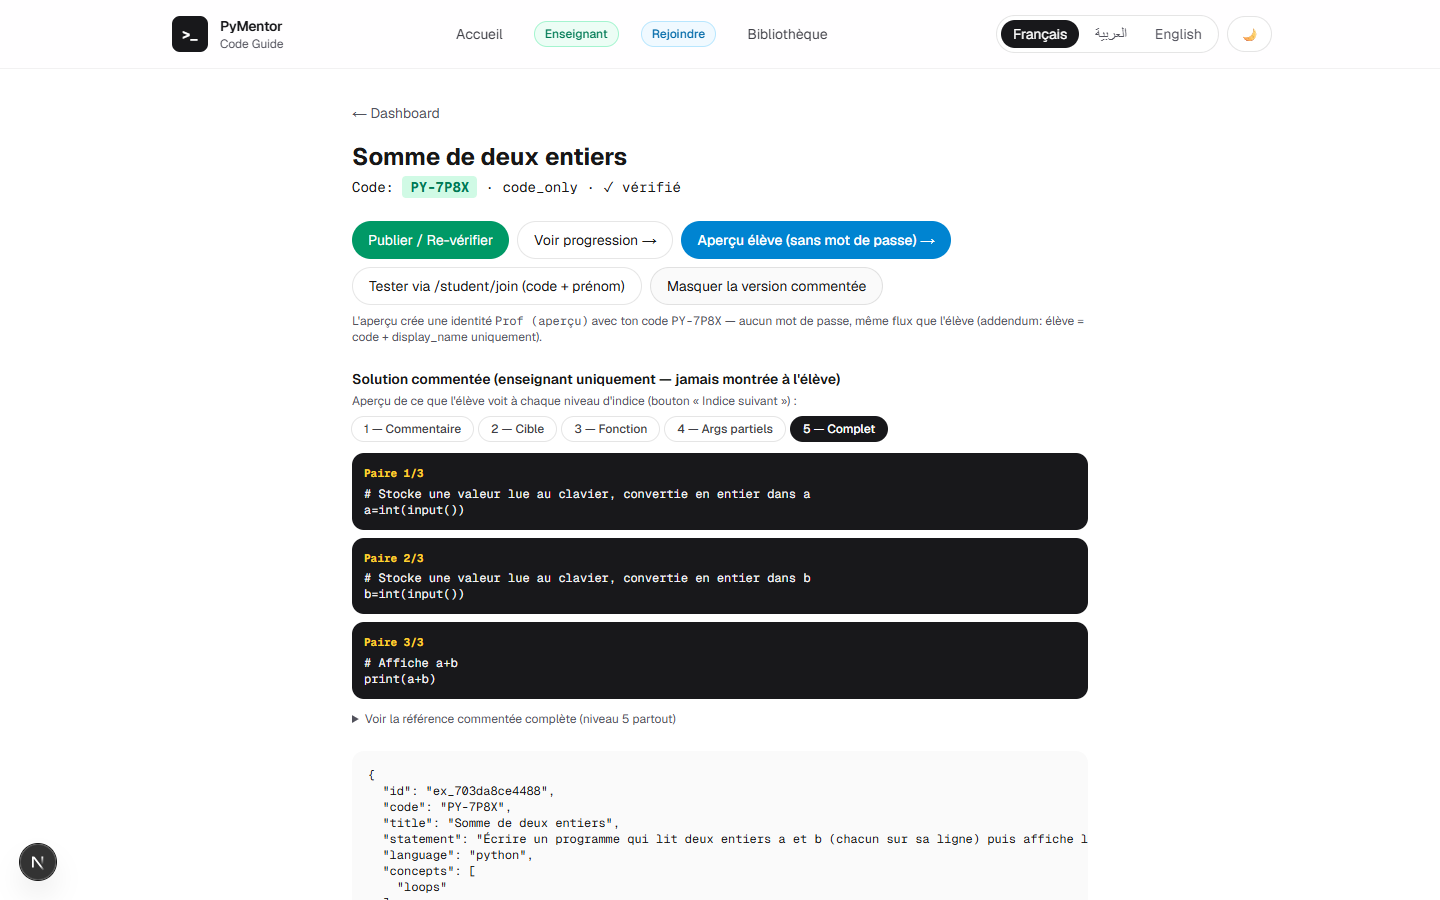
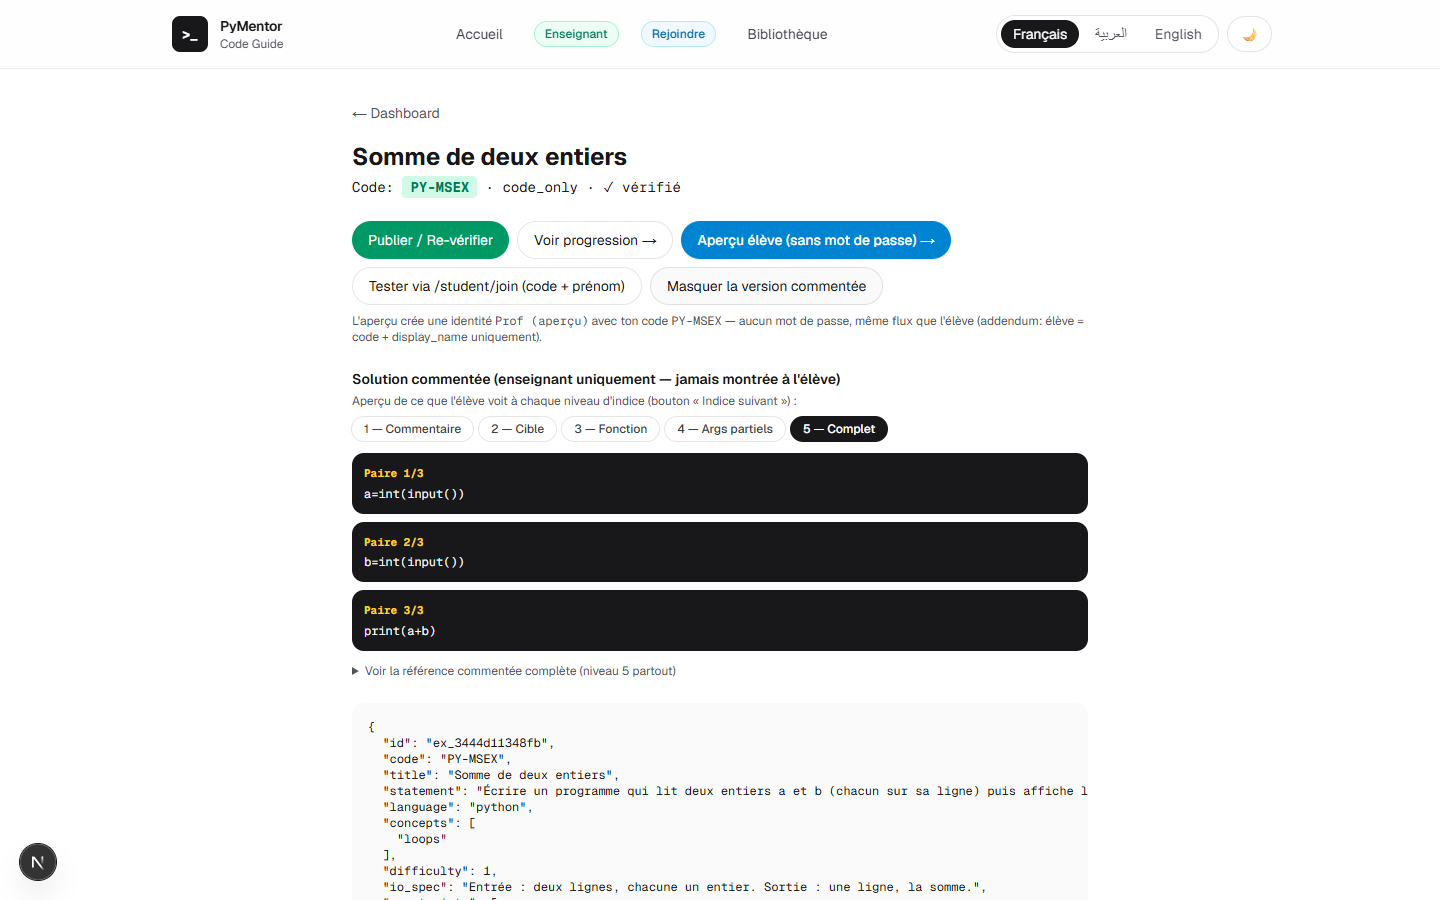
UX eleve: clavier simule + bouton remplir exemple, Run vs Verifier, console FR, warning input(prompt)

Changed region(s): [[0.2188, 0.5289, 0.7812, 1.0], [0.5938, 0.9644, 0.6875, 0.9956], [0.4688, 0.3422, 0.5, 0.3733]]

diff --git a/src/components/WorkspaceClient.tsx b/src/components/WorkspaceClient.tsx
@@ -24,6 +24,14 @@ function isDefaultCode(code: string): boolean {
   return code === DEFAULT_CODE;
 }
 
+/**
+ * L'élève a écrit input("texte") avec un prompt ? Au BAC c'est input() vide.
+ * Hors commentaires uniquement (un # input("x") ne compte pas).
+ */
+export function hasInputPromptLine(code: string): boolean {
+  return code.split("\n").some((l) => !l.trim().startsWith("#") && /input\s*\(\s*["']/.test(l));
+}
+
 export function WorkspaceClient() {
   const { t } = useI18n();
   const router = useRouter();
@@ -233,6 +241,9 @@ export function WorkspaceClient() {
   );
   const panelExamples = loadedExercise?.examples ?? [];
   const panelConstraints = loadedExercise?.constraints ?? [];
+  // L'élève a écrit input("texte") ? Au BAC c'est input() vide — on le signale
+  // doucement (hors commentaires) au lieu de laisser les tests échouer.
+  const hasInputPrompt = useMemo(() => hasInputPromptLine(code), [code]);
 
   const isCompleted = !!(testReport && testReport.total > 0 && testReport.passed === testReport.total);
 
@@ -414,14 +425,14 @@ export function WorkspaceClient() {
         <div role="region" aria-label={`${t("workspace.editor")} & ${t("workspace.console")}`} className={`${activeTab !== "editor" ? "hidden lg:flex" : "flex"} flex flex-col gap-3`}>
           <div className="flex flex-wrap items-center justify-between gap-2 rounded-2xl border border-black/10 bg-white p-3 dark:border-white/10 dark:bg-zinc-900">
             <div className="flex items-center gap-2">
-              <button onClick={handleRun} disabled={running} data-testid="run-btn" className="inline-flex h-9 items-center gap-2 rounded-full bg-emerald-600 px-4 text-sm font-medium text-white hover:bg-emerald-700 disabled:cursor-not-allowed disabled:bg-zinc-100 disabled:text-zinc-400 dark:disabled:bg-zinc-700">
+              <button onClick={handleRun} disabled={running} data-testid="run-btn" title={t("workspace.runTitle")} className="inline-flex h-9 items-center gap-2 rounded-full bg-emerald-600 px-4 text-sm font-medium text-white hover:bg-emerald-700 disabled:cursor-not-allowed disabled:bg-zinc-100 disabled:text-zinc-400 dark:disabled:bg-zinc-700">
                 <span aria-hidden>▶</span> {t("workspace.run")}
               </button>
               <button onClick={handleStop} disabled={!running} data-testid="stop-btn" className="inline-flex h-9 items-center gap-2 rounded-full border border-black/10 bg-white px-4 text-sm font-medium hover:bg-zinc-50 disabled:opacity-50 dark:border-white/15 dark:bg-zinc-800 dark:hover:bg-zinc-700">
                 ■ {t("workspace.stop")}
               </button>
-              <button onClick={handleRunTests} disabled={running} className="hidden h-9 items-center rounded-full border border-black/10 bg-white px-4 text-sm sm:inline-flex dark:border-white/15 dark:bg-zinc-800">
-                Tests
+              <button onClick={handleRunTests} disabled={running} data-testid="tests-btn" title={t("workspace.testsTitle")} className="inline-flex h-9 items-center rounded-full border border-black/10 bg-white px-4 text-sm font-medium hover:bg-zinc-50 dark:border-white/15 dark:bg-zinc-800 dark:hover:bg-zinc-700">
+                {t("workspace.verify")}
               </button>
             </div>
             <div className="flex items-center gap-2">
@@ -442,9 +453,15 @@ export function WorkspaceClient() {
             <Editor ref={editorRef} value={code} onChange={setCode} onLargePaste={handleLargePaste} theme={theme} fontSize={fontSize} placeholder={t("landing.pastePlaceholder")} />
           </div>
 
+          {hasInputPrompt ? (
+            <div className="rounded-xl border border-amber-300 bg-amber-50 p-3 text-sm text-amber-800 dark:border-amber-900 dark:bg-amber-950 dark:text-amber-200" role="status">
+              {t("workspace.inputPromptWarning")}
+            </div>
+          ) : null}
           <div className="grid gap-3 lg:grid-cols-[220px_1fr]">
             <div className="rounded-xl border border-black/10 bg-white p-3 dark:border-white/10 dark:bg-zinc-900">
-              <label htmlFor="stdin" className="text-xs font-medium text-zinc-700 dark:text-zinc-300">stdin (une valeur par ligne pour input())</label>
+              <label htmlFor="stdin" className="text-xs font-medium text-zinc-700 dark:text-zinc-300">{t("workspace.stdinTitle")}</label>
+              <p className="mt-1 text-xs leading-4 text-zinc-600 dark:text-zinc-400">{t("workspace.stdinHelp")}</p>
               <textarea
                 id="stdin"
                 value={stdinInput}
@@ -454,7 +471,18 @@ export function WorkspaceClient() {
                 className="mt-2 w-full rounded-lg border border-black/10 bg-zinc-50 p-2 font-mono text-sm dark:border-white/10 dark:bg-zinc-800"
                 data-testid="stdin-input"
               />
-              <p className="mt-1 text-xs text-zinc-600">Exemple : 2 lignes pour deux appels à input()</p>
+              {panelExamples.length > 0 ? (
+                <button
+                  type="button"
+                  onClick={() => setStdinInput(panelExamples[0].input)}
+                  className="mt-2 w-full rounded-full border border-emerald-300 bg-emerald-50 px-3 py-1.5 text-xs font-medium text-emerald-700 hover:bg-emerald-100 dark:border-emerald-800 dark:bg-emerald-950 dark:text-emerald-300"
+                  data-testid="stdin-fill-example"
+                >
+                  📋 {t("workspace.stdinFillExample")}
+                </button>
+              ) : (
+                <p className="mt-1 text-xs text-zinc-500">{t("workspace.stdinNoExample")}</p>
+              )}
             </div>
             <Console
               stdout={status?.stdout ?? ""}

diff --git a/src/components/Console.tsx b/src/components/Console.tsx
@@ -1,6 +1,7 @@
 "use client";
 
 import { useEffect, useRef, useState } from "react";
+import { useI18n } from "@/lib/i18n";
 
 type ConsoleProps = {
   stdout: string;
@@ -11,6 +12,7 @@ type ConsoleProps = {
 };
 
 export function Console({ stdout, stderr, awaitingInput, inputPrompt, onSubmitInput }: ConsoleProps) {
+  const { t } = useI18n();
   const [input, setInput] = useState("");
   const scrollRef = useRef<HTMLDivElement>(null);
 
@@ -39,23 +41,26 @@ export function Console({ stdout, stderr, awaitingInput, inputPrompt, onSubmitIn
           <pre className="whitespace-pre-wrap break-words text-red-400" data-testid="console-stderr">{stderr}</pre>
         ) : null}
         {!stdout && !stderr && !awaitingInput ? (
-          <span className="text-zinc-600">No output yet. Press Run.</span>
+          <span className="text-zinc-600">{t("workspace.consoleEmpty")}</span>
         ) : null}
         {awaitingInput ? (
-          <form onSubmit={handleSubmit} className="mt-3 flex items-center gap-2">
-            <span className="shrink-0 text-amber-300">{inputPrompt ?? "input():"}</span>
-            <input
-              autoFocus
-              value={input}
-              onChange={(e) => setInput(e.target.value)}
-              placeholder="Type input and press Enter"
-              className="flex-1 rounded border border-white/20 bg-zinc-900 px-2 py-1 text-sm text-white placeholder:text-zinc-400 focus:border-white/40 focus:outline-none"
-              data-testid="console-input"
-            />
-            <button type="submit" className="rounded bg-white px-3 py-1 text-xs font-medium text-zinc-900 hover:bg-zinc-100">
-              Send
-            </button>
-          </form>
+          <div className="mt-3 rounded-lg border border-amber-400/40 bg-amber-400/10 p-2">
+            <p className="text-xs font-medium text-amber-300">{t("workspace.consoleAwaiting")}</p>
+            <form onSubmit={handleSubmit} className="mt-2 flex items-center gap-2">
+              <span className="shrink-0 text-amber-300">{inputPrompt ?? "input():"}</span>
+              <input
+                autoFocus
+                value={input}
+                onChange={(e) => setInput(e.target.value)}
+                placeholder={t("workspace.consoleTypeInput")}
+                className="flex-1 rounded border border-white/20 bg-zinc-900 px-2 py-1 text-sm text-white placeholder:text-zinc-400 focus:border-white/40 focus:outline-none"
+                data-testid="console-input"
+              />
+              <button type="submit" className="rounded bg-white px-3 py-1 text-xs font-medium text-zinc-900 hover:bg-zinc-100">
+                {t("workspace.consoleSend")}
+              </button>
+            </form>
+          </div>
         ) : null}
       </div>
     </div>

diff --git a/src/test/workspace.test.tsx b/src/test/workspace.test.tsx
@@ -1,7 +1,7 @@
 import { describe, it, expect, vi } from "vitest";
 import { render, screen, fireEvent, waitFor } from "@testing-library/react";
 import { I18nProvider } from "@/lib/i18n";
-import { WorkspaceClient } from "@/components/WorkspaceClient";
+import { WorkspaceClient, hasInputPromptLine } from "@/components/WorkspaceClient";
 import type { Exercise } from "@/lib/exercise/types";
 
 vi.mock("next/navigation", () => ({
@@ -138,6 +138,41 @@ describe("WorkspaceClient — IDE + runner", () => {
     localStorage.removeItem("student_join_token");
   });
 
+  it("stdin fill-example button fills stdin with the statement example", async () => {
+    localStorage.setItem("locale", "fr");
+    setExerciseInStorage({});
+    render(
+      <I18nProvider>
+        <WorkspaceClient />
+      </I18nProvider>
+    );
+    const fillBtn = await screen.findByTestId("stdin-fill-example");
+    fireEvent.click(fillBtn);
+    const stdin = screen.getByTestId("stdin-input") as HTMLTextAreaElement;
+    expect(stdin.value).toBe("2 3");
+  });
+
+  it("verify button is always visible (no mobile hiding)", () => {
+    localStorage.setItem("locale", "fr");
+    setExerciseInStorage({});
+    render(
+      <I18nProvider>
+        <WorkspaceClient />
+      </I18nProvider>
+    );
+    const btn = screen.getByTestId("tests-btn");
+    expect(btn).toBeVisible();
+    expect(btn).toHaveAttribute("title");
+  });
+
+  it("hasInputPromptLine detects input() with prompt text, ignores comments", () => {
+    expect(hasInputPromptLine('s = input("donner une chaine")')).toBe(true);
+    expect(hasInputPromptLine("s = input('x')")).toBe(true);
+    expect(hasInputPromptLine("n = int(input())")).toBe(false);
+    expect(hasInputPromptLine("# input(\"texte\")")).toBe(false);
+    expect(hasInputPromptLine("print(input())")).toBe(false);
+  });
+
   it("shows TestRunner with visible diff and hidden category-only, and Completion when all pass", async () => {
     localStorage.setItem("locale", "fr");
     setExerciseInStorage({});
@@ -146,7 +181,7 @@ describe("WorkspaceClient — IDE + runner", () => {
         <WorkspaceClient />
       </I18nProvider>
     );
-    const testsBtn = screen.getByText("Tests");
+    const testsBtn = screen.getByTestId("tests-btn");
     fireEvent.click(testsBtn);
     await waitFor(() => expect(screen.getByTestId("test-runner")).toBeInTheDocument());
     await waitFor(() => expect(screen.getByTestId("test-summary")).toBeInTheDocument());

diff --git a/src/test/a11y.test.tsx b/src/test/a11y.test.tsx
@@ -71,7 +71,11 @@ describe("a11y — landmarks and labels", () => {
   it("Console has log role and aria-live", async () => {
     const { Console } = await import("@/components/Console");
     const { render: r } = await import("@testing-library/react");
-    const { container } = r(<Console stdout="hello" stderr="" />);
+    const { container } = r(
+      <I18nProvider>
+        <Console stdout="hello" stderr="" />
+      </I18nProvider>
+    );
     expect(container.querySelector('[role="log"]')).toBeTruthy();
     expect(container.querySelector('[aria-live="polite"]')).toBeTruthy();
   });
